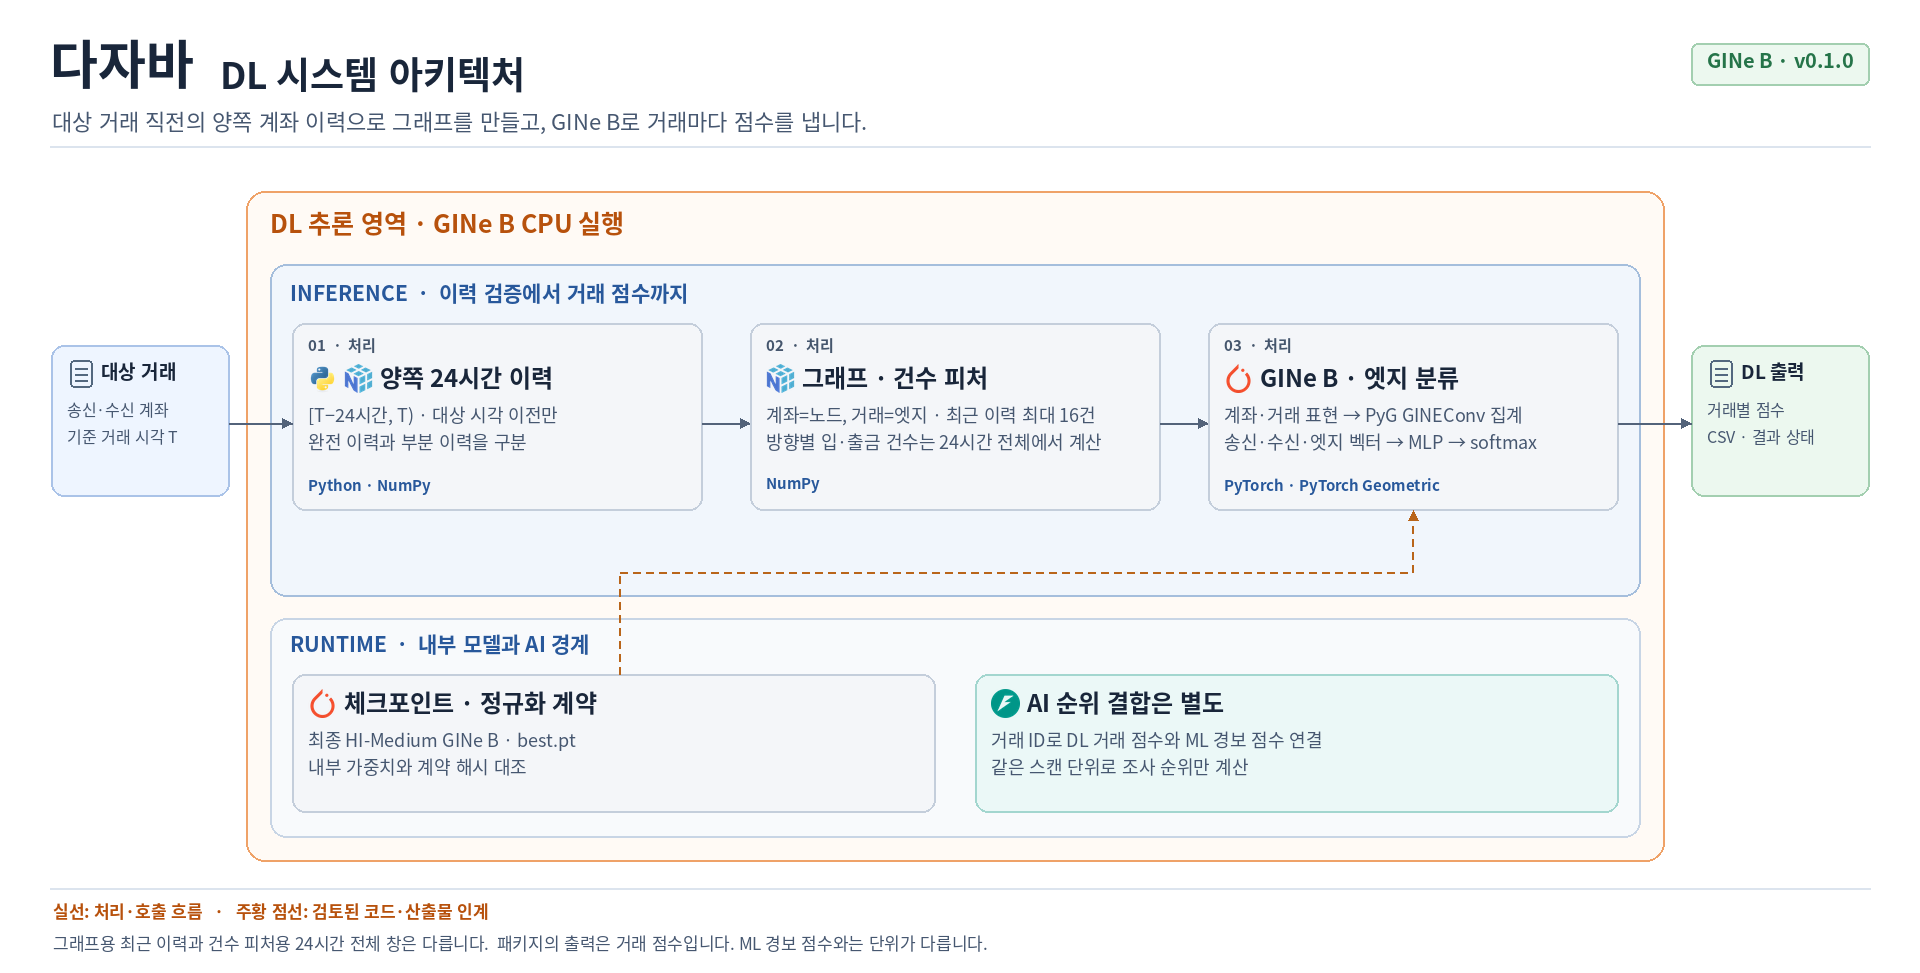
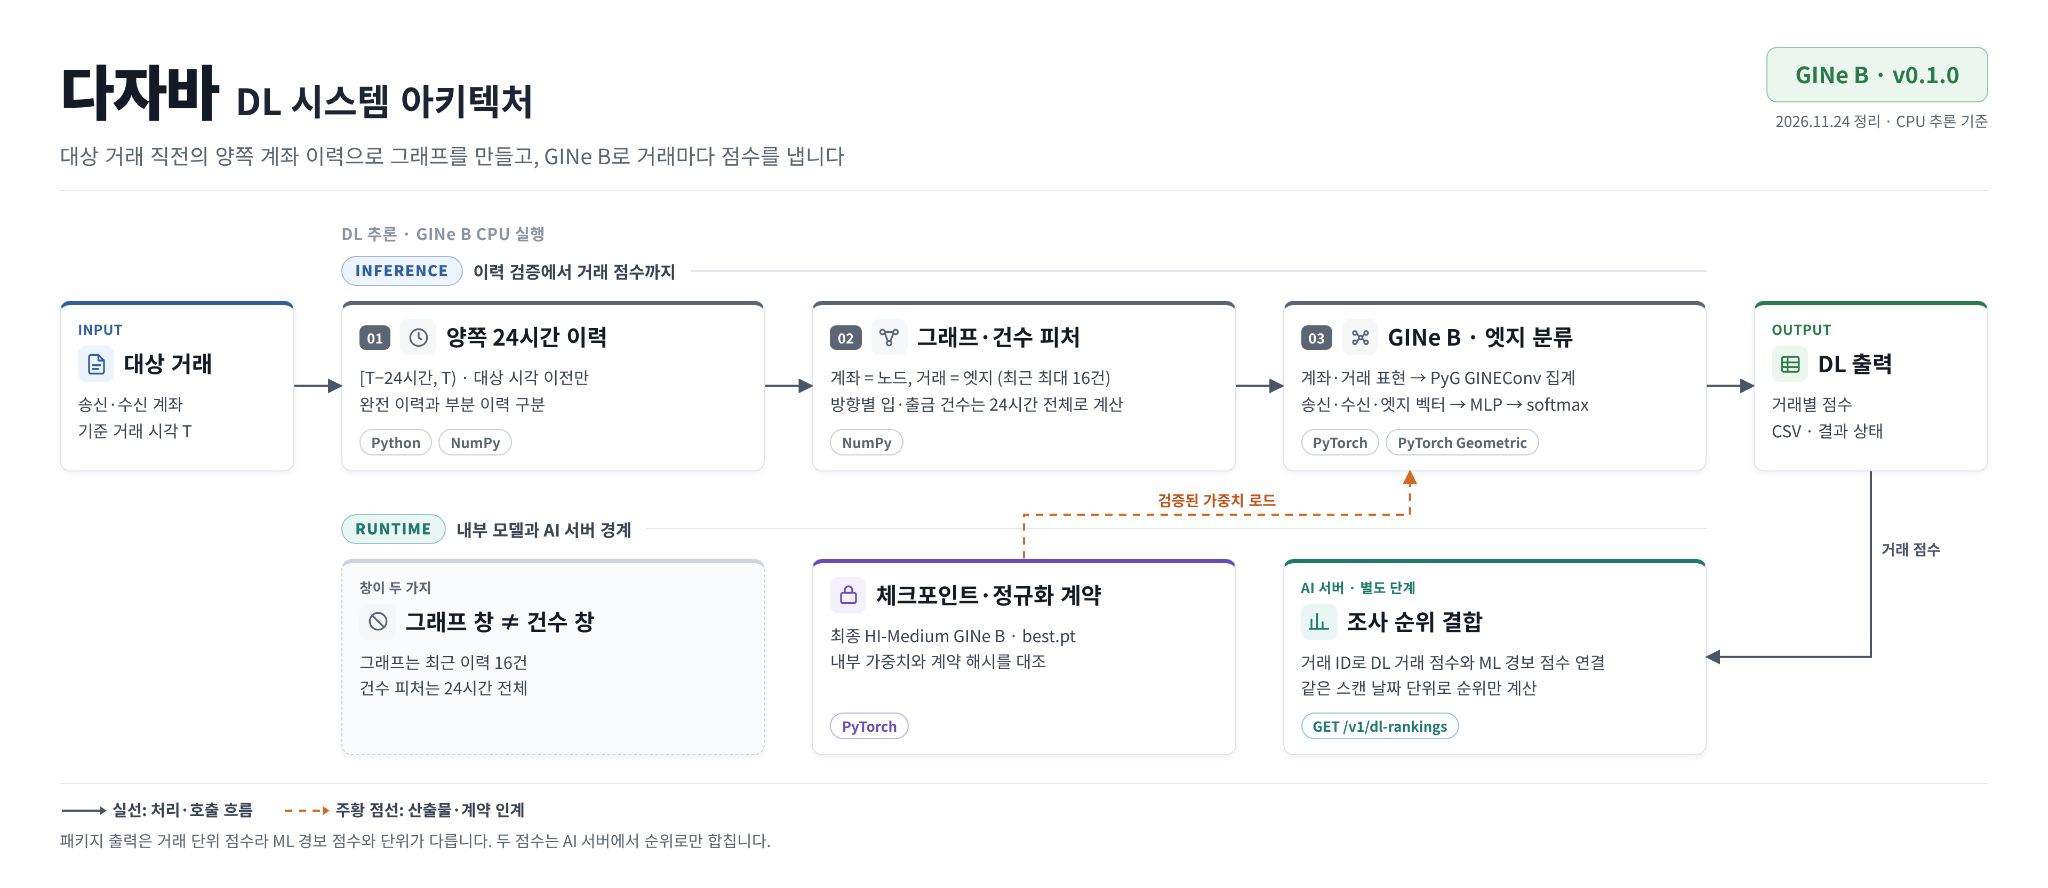
docs: SCRUM-384 DL 거래 채점·조사 순위 아키텍처 갱신

diff --git a/README.md b/README.md
@@ -2,11 +2,15 @@
 
 거래별 점수를 계산하는 GINe B 추론 패키지다. 각 대상 거래 시각 T 기준 송·수신 양쪽 계좌의 `[T−24시간, T)` 이력을 입력으로 사용한다.
 
-## 개발 아키텍처 / CI 준비
+## 시스템 아키텍처
 
-![다자바 DL의 거래 그래프 추론과 CI 계획](docs/images/dl-architecture-ci.png)
+![GINe B가 양쪽 계좌의 이력으로 거래를 채점하고 AI 서버가 스캔별 조사 순위를 결합하는 흐름](docs/images/dl-architecture-ci.png)
 
-그래프는 최근 이력 16건을 사용한다. 방향별 입·출금 건수는 전체 24시간 창에서 계산한다. 거래 점수와 별도 경보 순위 비교 도구는 원본 파일명과 헤더 제외 첫 데이터 행부터 센 번호로 연결한다. 보존된 전수 추론은 로컬 검증이다. GitHub CI 구성은 후속 작업이다.
+그래프에는 양쪽 계좌에서 모은 최근 거래를 최대 16건 사용한다. 방향별 입·출금 건수는 24시간 전체 이력에서 계산한다. `dajaba-dl-score`는 원본 파일명(`source_file`)과 헤더 다음 행부터 1로 센 행 번호(`source_row_number`)를 키로 거래별 점수를 `transaction_scores.csv`에 쓰고 실행 정보를 `result.json`에 기록한다.
+
+AI 서버는 원본 키와 백엔드 거래 ID의 매핑으로 DL 점수를 경보의 근거 거래에 연결한다. `GET /v1/dl-rankings/{scan_date}`는 같은 스캔 날짜의 ML 경보 점수와 DL 거래 점수를 이용해 조사 순위를 제공한다. 공식 경보 점수는 ML이 계산하고 위험 등급은 백엔드가 결정한다. [AI 서버의 조사 순위 계산 규칙](https://github.com/dajaba-team/dajaba-ai/blob/f31fbfdfed44468814922167f10247c831431dc4/docs/scoring/01_dl_investigation_ranking.md)
+
+보존된 전수 추론은 로컬에서 검증했다. GitHub CI 구성은 후속 작업이다.
 
 ## 설치 및 실행
 
